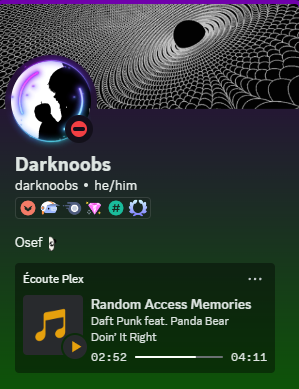
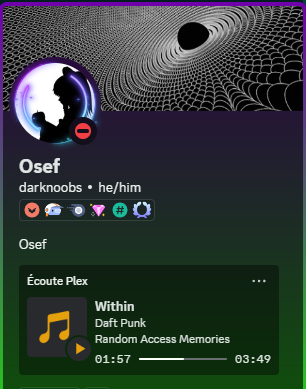
small change on RPC for musics

diff --git a/main.py b/main.py
@@ -90,12 +90,14 @@ def get_corresponding_infos(current_activity: dict) -> dict:
             + current_activity["media_index"]
         )
         to_send["large_image"] = "show"
+        to_send["large_text"] = current_activity["title"][:50]
         to_send["activity_type"] = 3
     # Movies
     elif current_activity["media_type"] == "movie":
         to_send = dict(details=current_activity["title"])
         to_send["state"] = f"({current_activity['year']})"
         to_send["large_image"] = "movie"
+        to_send["large_text"] = current_activity["title"][:50]
         to_send["activity_type"] = 3
     # Musics
     elif current_activity["media_type"] == "track":
@@ -106,14 +108,14 @@ def get_corresponding_infos(current_activity: dict) -> dict:
         )
         to_send = dict(state=artists)
         to_send["large_image"] = "music"
-        to_send["details"] = "{:<2}".format(current_activity["parent_title"])
+        to_send["details"] = current_activity["title"][:50]
+        to_send["large_text"] = "{:<2}".format(current_activity["parent_title"])
         to_send["activity_type"] = 2
     # Others
     else:
         to_send = dict(state=current_activity["title"])
         to_send["large_image"] = "plex"
 
-    to_send["large_text"] = current_activity["title"][:50]
     to_send = set_progression(current_activity=current_activity, to_send=to_send)
 
     return to_send

diff --git a/README.md b/README.md
@@ -6,7 +6,7 @@ This project makes a RPC in discord of your current activity on plex via Tautull
 
 ## Setup
 
-The project uses Tautulli API to get your Plex activity so you obviously need to have it installed (https://tautulli.com/#download)
+The project uses Tautulli API to get your Plex activity so you obviously need to have it installed (<https://tautulli.com/#download>)
 
 Install required packages
 
@@ -35,7 +35,7 @@ cp config.example.json config.json
 
 ### App creation
 
-For discord to display your RPC you need to create an application on the dev portal (https://discord.com/developers/applications/)
+For discord to display your RPC you need to create an application on the dev portal (<https://discord.com/developers/applications/>)
 
 The process is very straight forward
 
